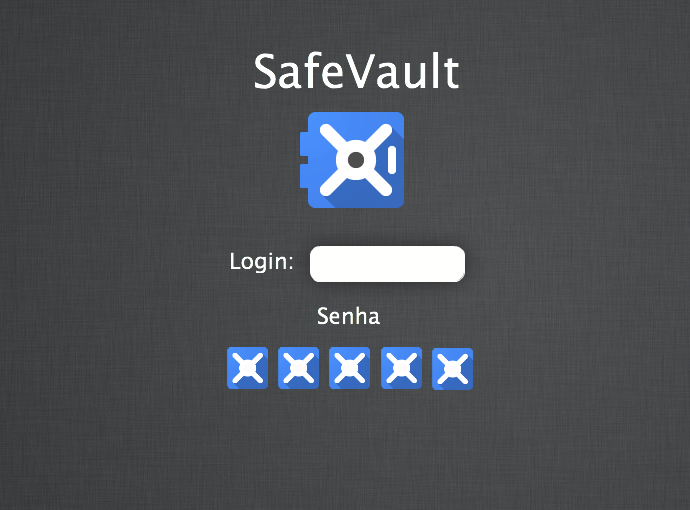
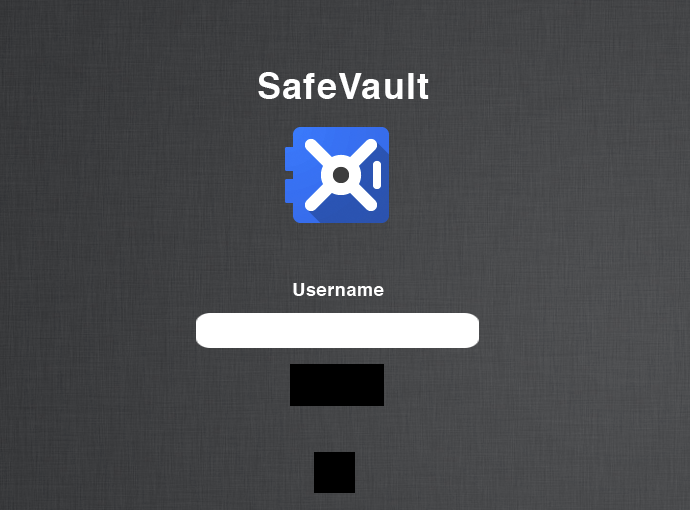
Nova tela de login.

Changed region(s): [[0.2739, 0.4706, 0.7, 0.7941], [0.3652, 0.0882, 0.6696, 0.4412], [0.4565, 0.8824, 0.5174, 0.9706]]

diff --git a/src/Interface/PainelPrincipal.java b/src/Interface/PainelPrincipal.java
@@ -42,17 +42,25 @@ public class PainelPrincipal extends JPanel {
 		login.setBorder(javax.swing.BorderFactory.createEmptyBorder());
 		login.setFont(font);
 		login.setHorizontalAlignment(SwingConstants.CENTER);
-		login.setBounds(316, 255, 145, 22);
+		login.setBounds(205, 320, 265, 22);
 		login.setVisible(true);
 		this.add(login);
 		
-		LockButton locker = new LockButton();
-		locker.setBorder(javax.swing.BorderFactory.createEmptyBorder());
-		locker.setBounds(316, 410, 60, 60);
-		locker.setVisible(true);
-		locker.setName("Cadastrar");
-		locker.addMouseListener(tb);
-		this.add(locker);
+		ConnectButton connect = new ConnectButton();
+		connect.setBorder(javax.swing.BorderFactory.createEmptyBorder());
+		connect.setBounds(290, 364, 94, 42);
+		connect.setVisible(true);
+		connect.setName("Cadastrar");
+		connect.addMouseListener(tb);
+		this.add(connect);
+		
+		CloseButton close = new CloseButton();
+		close.setBorder(javax.swing.BorderFactory.createEmptyBorder());
+		close.setBounds(314, 447, 45, 45);
+		close.setVisible(true);
+		close.setName("Fechar");
+		close.addMouseListener(tb);
+		this.add(close);
 
 
 		this.setLayout(null);

diff --git a/src/Interface/ConnectButton.java b/src/Interface/ConnectButton.java
@@ -1,0 +1,32 @@
+package Interface;
+
+import java.awt.Graphics;
+import java.awt.image.BufferedImage;
+import java.io.File;
+import java.io.IOException;
+
+import javax.imageio.ImageIO;
+import javax.swing.JButton;
+
+public class ConnectButton extends JButton {
+	
+	private BufferedImage i;
+
+	public ConnectButton()
+	{
+		try
+		{
+			i=ImageIO.read(new File("connect.png"));
+		}
+		catch(IOException e)
+		{
+			System.out.println(e.getMessage());
+			System.exit(1);
+		}
+		this.setLayout(null);
+	}
+	public void paintComponent(Graphics g) {
+		super.paintComponent(g);
+		g.drawImage(i, 0, 0, null);
+	}
+}

diff --git a/src/Interface/CloseButton.java b/src/Interface/CloseButton.java
@@ -1,0 +1,32 @@
+package Interface;
+
+import java.awt.Graphics;
+import java.awt.image.BufferedImage;
+import java.io.File;
+import java.io.IOException;
+
+import javax.imageio.ImageIO;
+import javax.swing.JButton;
+
+public class CloseButton extends JButton {
+	
+	private BufferedImage i;
+
+	public CloseButton()
+	{
+		try
+		{
+			i=ImageIO.read(new File("close.png"));
+		}
+		catch(IOException e)
+		{
+			System.out.println(e.getMessage());
+			System.exit(1);
+		}
+		this.setLayout(null);
+	}
+	public void paintComponent(Graphics g) {
+		super.paintComponent(g);
+		g.drawImage(i, 0, 0, null);
+	}
+}

diff --git a/src/Tratadores/TratadorBotoes.java b/src/Tratadores/TratadorBotoes.java
@@ -22,6 +22,11 @@ public class TratadorBotoes implements MouseListener {
 			fp.cadastraPanel();
 		}
 		
+		if (arg0.getComponent().getName().equals("Fechar"))
+		{
+			System.exit(0);
+		}
+		
 		else if (arg0.getComponent().getName().equals("Confirmar"))
 		{	
 			PainelCadastro pc = (PainelCadastro) arg0.getComponent().getParent();
